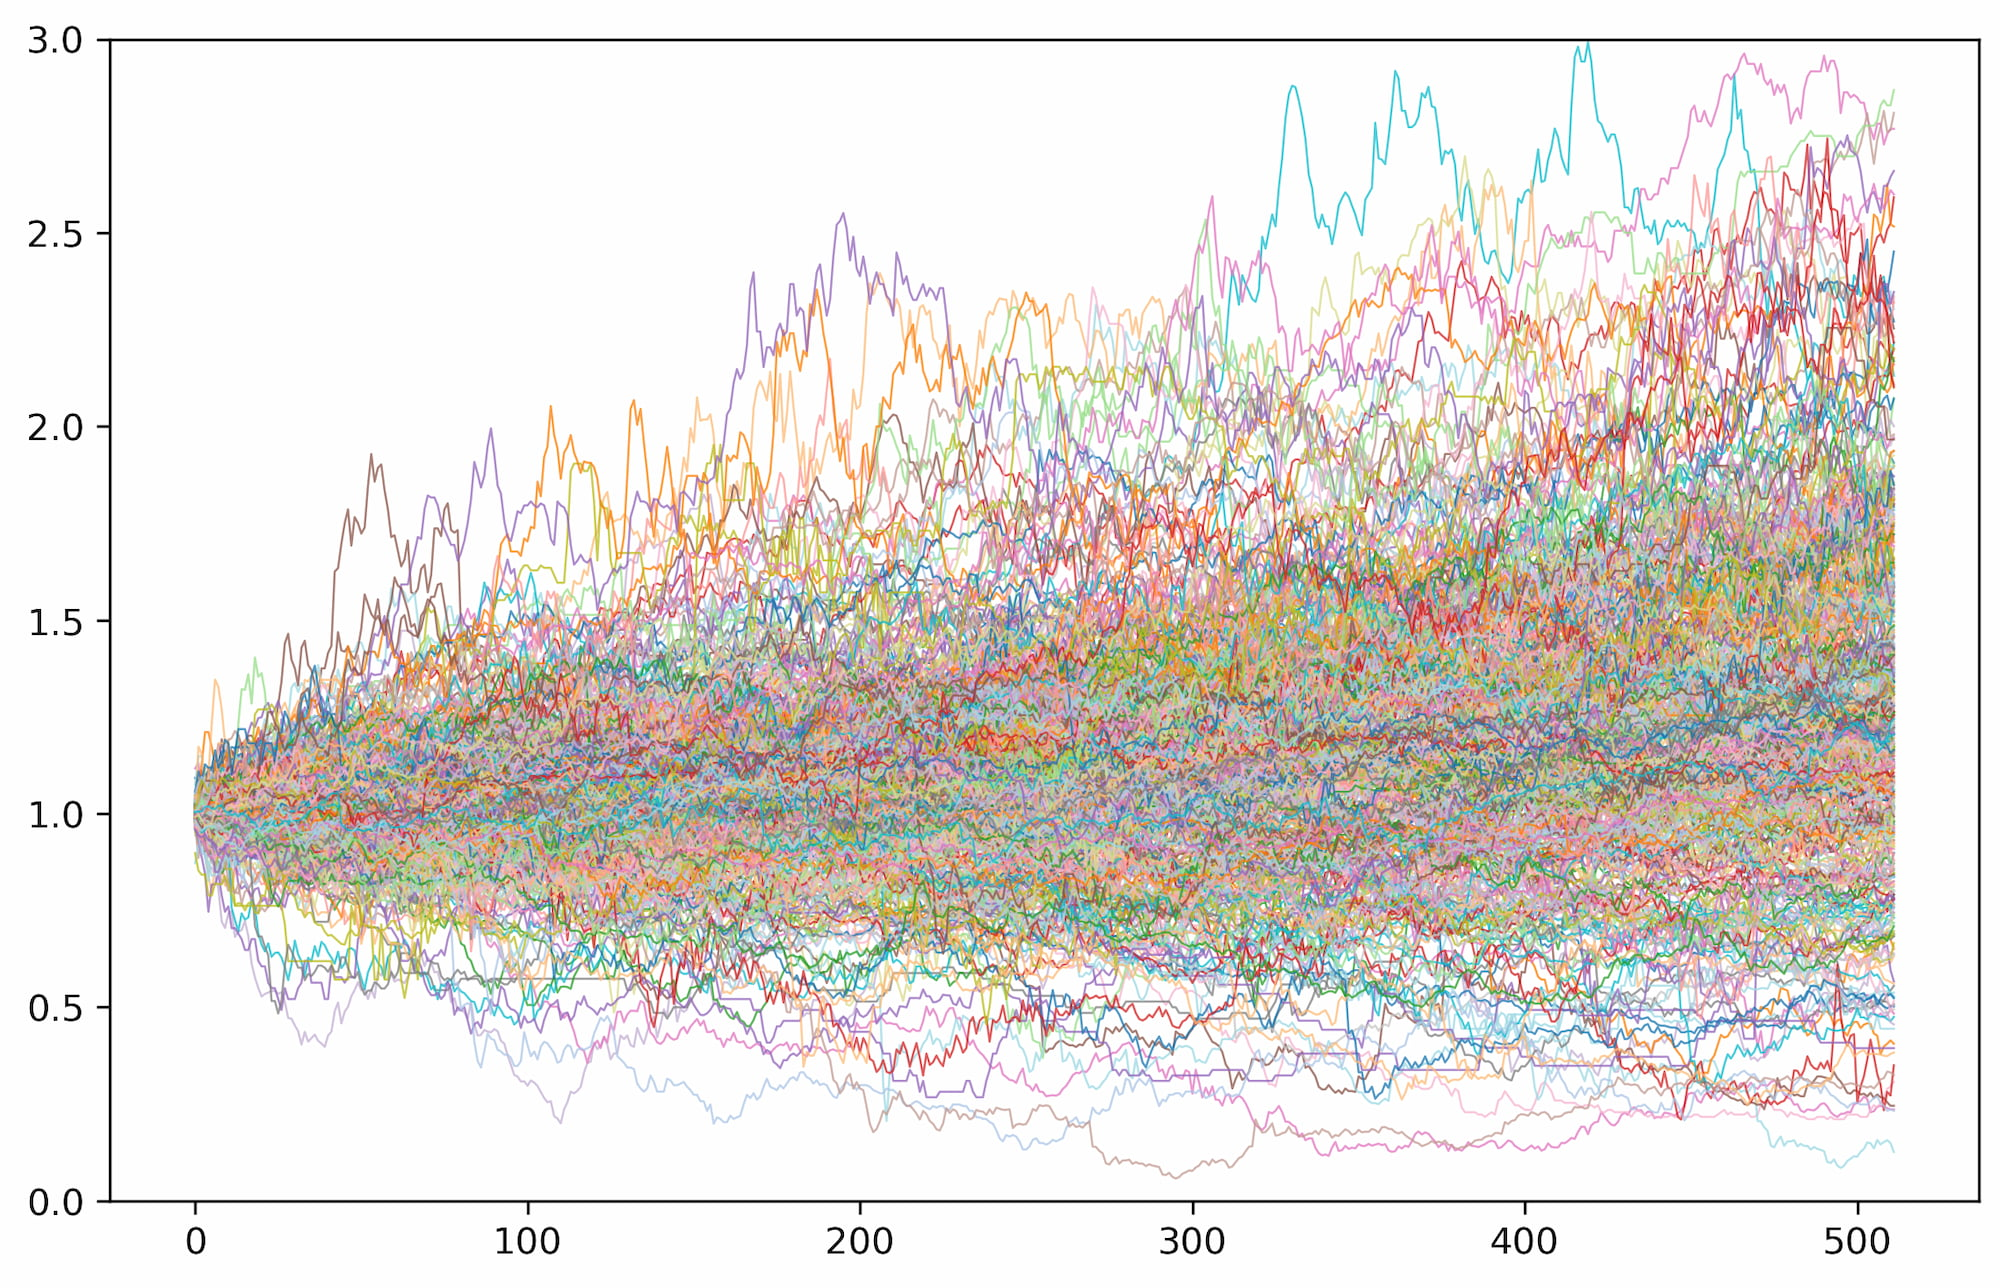
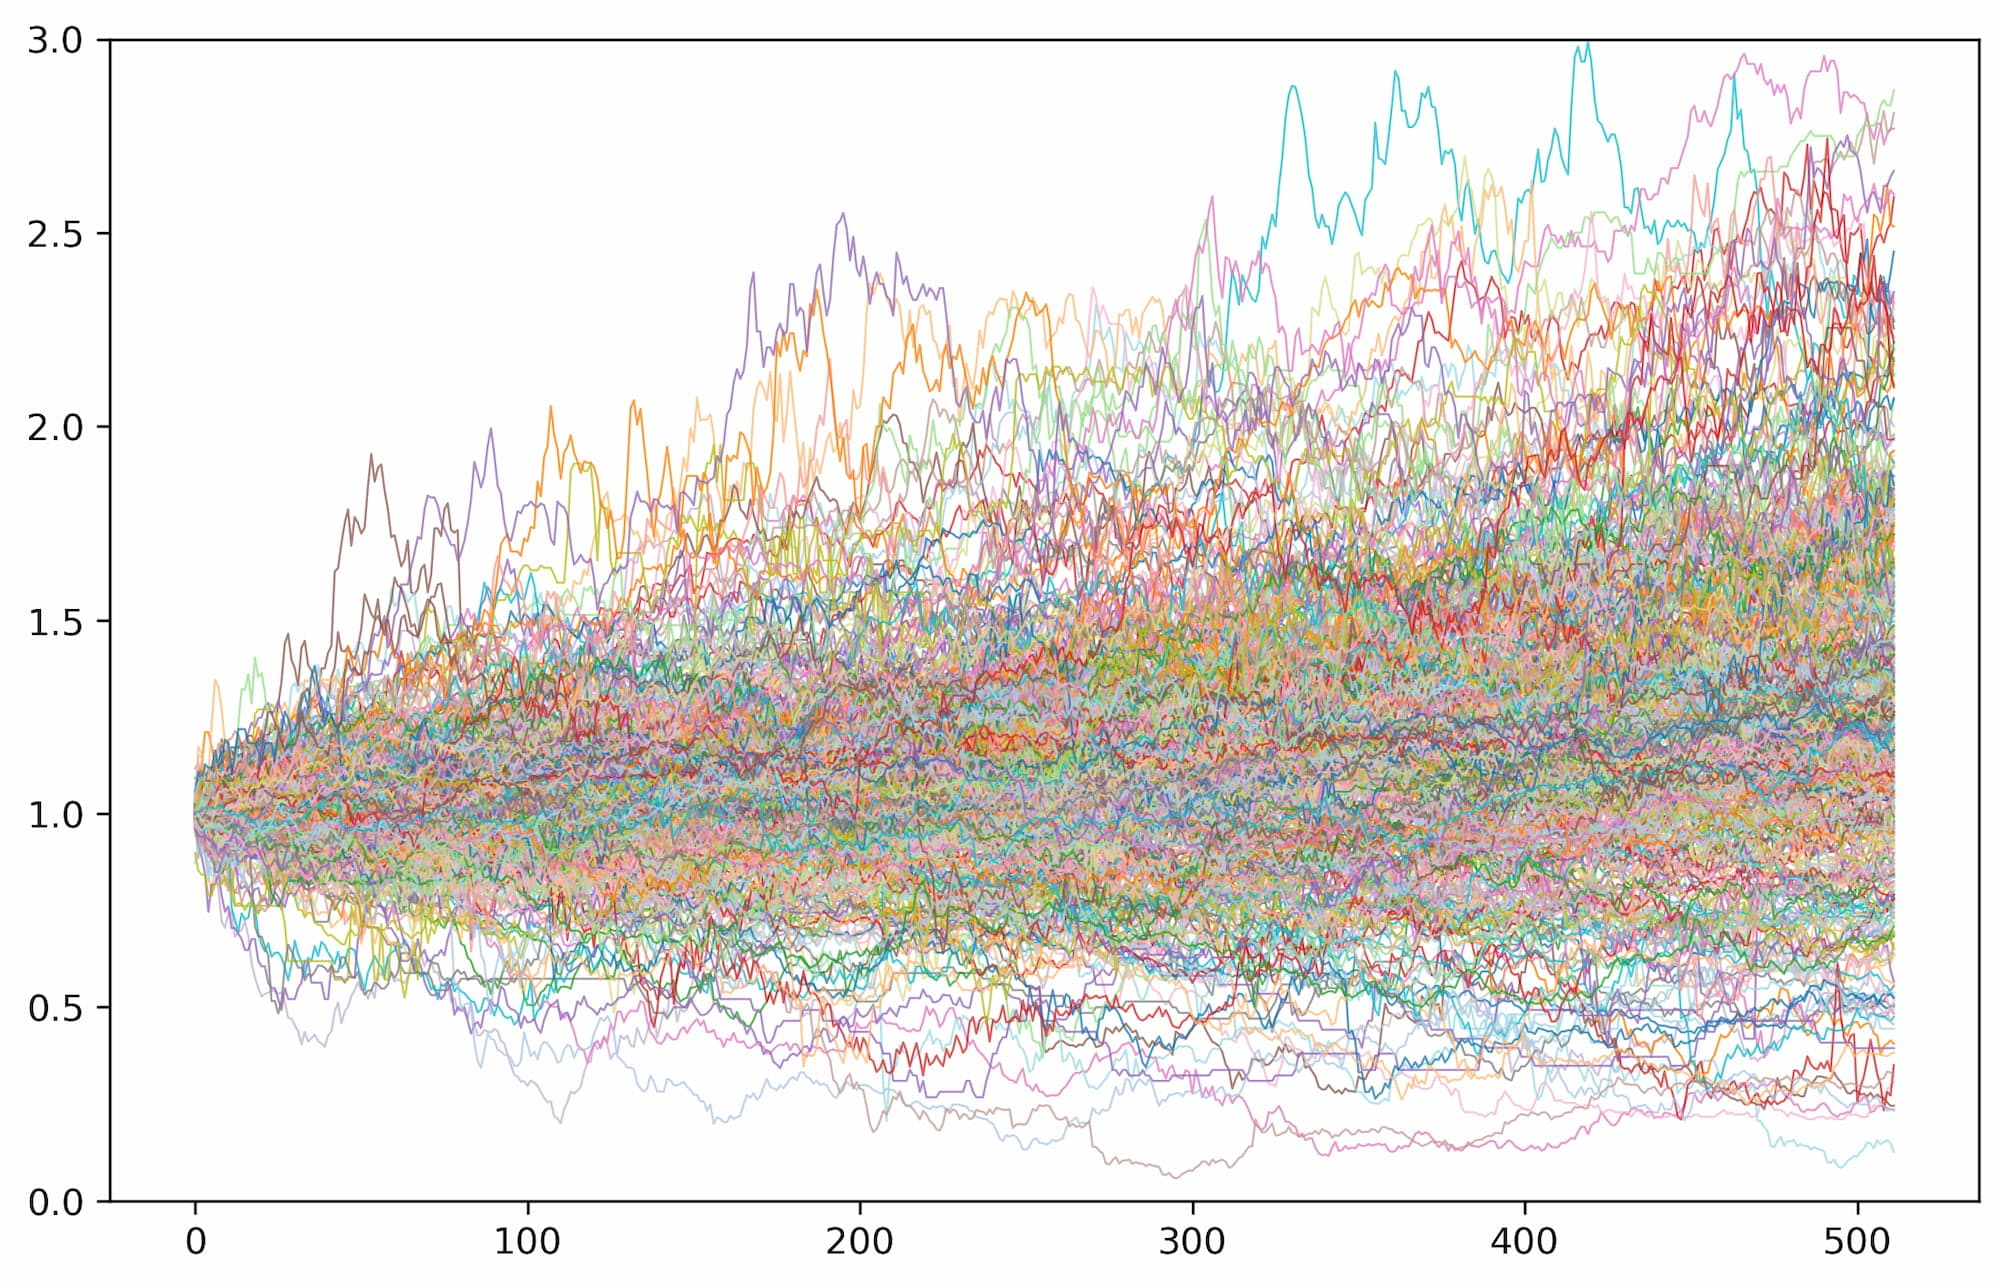
Missioned accomplished

diff --git a/ch6_exp_results.tex b/ch6_exp_results.tex
@@ -181,7 +181,7 @@ Most importantly, interpreting the log-returns as cumulative did not yield any u
 
 \begin{figure}[h]
     \centering
-    \includegraphics[width=1\textwidth]{images/Phase1/level_marginal_ve_exponential_2048_cropped.png}
+    \includegraphics[width=1\textwidth]{images/Phase1/appendix/level_marginal_ve_exponential_2048_cropped.jpg}
     \caption{From left to right, marginal distribution, QQ-plot, and ECDF plot. All three graphs are of VE SDE with Exponential noise schedule and the displayed quantiles are \(q_{0.001}-q_{0.999}\).}
     \label{fig:level_marginal_ve_exponantial_2048}
 \end{figure}
@@ -379,7 +379,7 @@ VE + Cosine      & 0.0004 & 0.0209 & -0.2368 & 16.6 & -0.0535 & 0.0553 & 0.0458 
 
 \begin{figure}[h]
     \centering
-    \includegraphics[width=1\textwidth]{images/Phase2/level_marginal_thinner_ve-exponential_512.png}
+    \includegraphics[width=1\textwidth]{images/Phase2/level_marginal_thinner_ve-exponential_512.jpg}
     \caption{Marginal distribution for VE+Exponential ($L=512$) against Reference (blue).}
     \label{fig:thinner_marginal_ve_exponential_512}
 \end{figure}

diff --git a/appendix_results.tex b/appendix_results.tex
@@ -54,14 +54,14 @@ at this precision.}
 
     \begin{subfigure}{\textwidth}
         \centering
-        \includegraphics[width=\linewidth]{images/garch_merton/appendix/marginal_distribution_garch.png}
+        \includegraphics[width=\linewidth]{images/garch_merton/appendix/marginal_distribution_garch.jpg}
     \end{subfigure}
 
     \vspace{0.2em}
 
     \begin{subfigure}{\textwidth}
         \centering
-        \includegraphics[width=\linewidth]{images/garch_merton/appendix/marginal_distribution_merton.png}
+        \includegraphics[width=\linewidth]{images/garch_merton/appendix/marginal_distribution_merton.jpg}
     \end{subfigure}
 
     % \vspace{0.2em}
